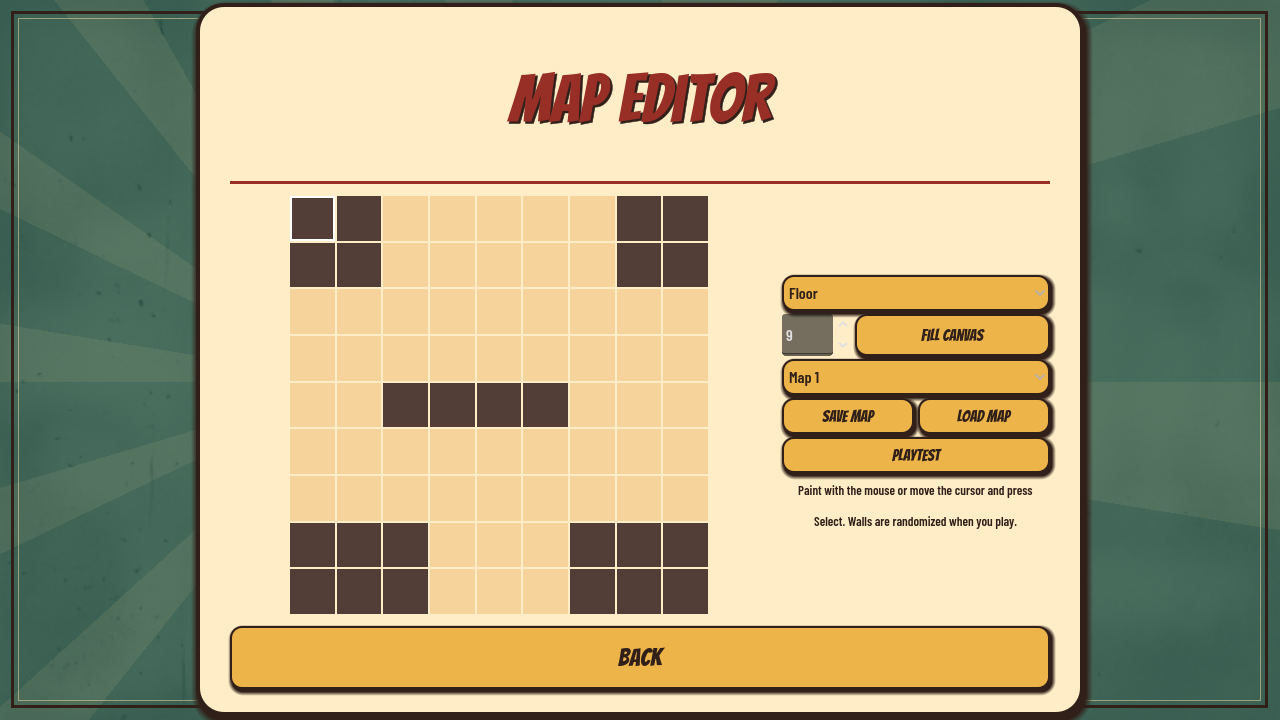
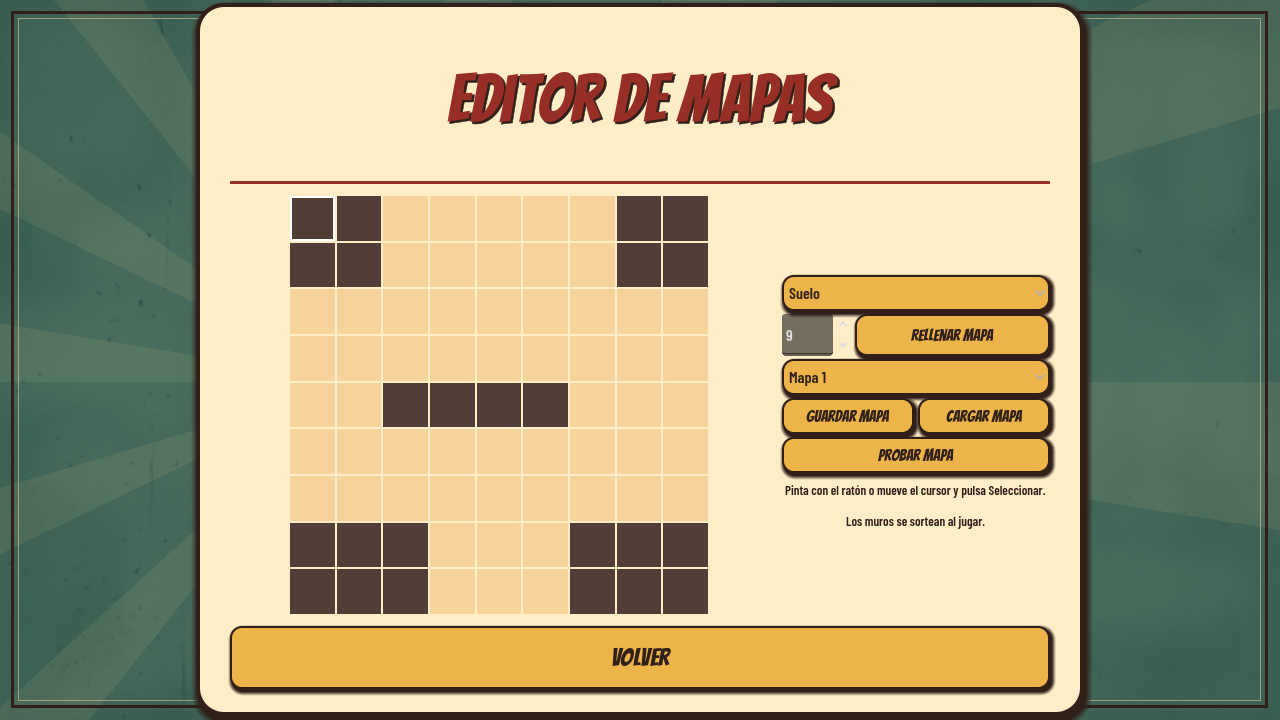
Make Sudoku bots rotate targets and showcase all locales

diff --git a/gameplay/ai/components/SudokuSolverAI.cs b/gameplay/ai/components/SudokuSolverAI.cs
@@ -40,6 +40,11 @@ public partial class SudokuSolverAI : Node
     private float _wait;
     private bool _readyToShoot;
     private int _avoidIndex = -1;
+    private int _lastWorkedIndex = -1;
+    private int _valueBeforeShot;
+    private float _flightLeft;
+    private bool _distantTarget;
+    private bool _lastShotDistant;
     private int _patrolIndex;
     private Vector2[] _patrolRoute = System.Array.Empty<Vector2>();
     private int _patrolWaypoint;
@@ -81,6 +86,21 @@ public partial class SudokuSolverAI : Node
         {
             Stop();
             return;
+        }
+
+        if (_flightLeft > 0f)
+        {
+            _flightLeft -= (float)delta;
+            if (_flightLeft > 0f && IsInstanceValid(_target) &&
+                _target!.Get("current_value").AsInt32() == _valueBeforeShot)
+            {
+                Stop();
+                return;
+            }
+            _flightLeft = 0f;
+            _target = null;
+            TargetIndex = -1;
+            _wait = 0f;
         }
 
         if (!TargetNeedsEdit())
@@ -157,6 +177,11 @@ public partial class SudokuSolverAI : Node
         _clock.NextShot = now + Gap();
         _clock.LastTeam = team;
         _readyToShoot = false;
+        _lastWorkedIndex = TargetIndex;
+        _lastShotDistant = _distantTarget;
+        _valueBeforeShot = _target!.Get("current_value").AsInt32();
+        float flightDistance = _tank.GetNode<Node2D>("body/head_mount/head/muzzle").GlobalPosition.DistanceTo(_target.GlobalPosition);
+        _flightLeft = flightDistance / ShellSpeed() + 0.22f;
         _tank.Call("set_ai_controls", 0f, 0f, true);
     }
 
@@ -193,6 +218,15 @@ public partial class SudokuSolverAI : Node
         var cells = _maze.Get("sudoku_numbers").AsGodotArray();
         var answers = _maze.Get("solution").AsInt32Array();
         Vector2 location = _tank.GlobalPosition;
+        if (!_lastShotDistant && TryDistantTarget(cells, answers, claimed, location))
+        {
+            _avoidIndex = -1;
+            _stuckTime = 0f;
+            _progress = location;
+            return;
+        }
+
+        _distantTarget = false;
         float best = float.PositiveInfinity;
         for (int i = 0; i < answers.Length; i++)
         {
@@ -204,6 +238,8 @@ public partial class SudokuSolverAI : Node
                 continue;
             float cost = route.Length + location.DistanceTo(route[0]) / 160f +
                 location.DistanceTo(cell.GlobalPosition) / 2400f;
+            if (i == _lastWorkedIndex)
+                cost += answers.Length;
             if (cost >= best)
                 continue;
 
@@ -225,6 +261,60 @@ public partial class SudokuSolverAI : Node
         _stuckTime = 0f;
         _progress = location;
     }
+
+    private bool TryDistantTarget(Godot.Collections.Array cells, int[] answers, HashSet<int> claimed, Vector2 location)
+    {
+        float scale = Mathf.Abs(_tank.GlobalScale.X);
+        float tile = (float)_maze.Get("grid_size").AsDouble() * Mathf.Abs(_maze.GlobalScale.X);
+        float muzzleOffset = location.DistanceTo(_tank.GetNode<Node2D>("body/head_mount/head/muzzle").GlobalPosition);
+        var stats = _tank.Get("shell_stats").AsGodotObject()!;
+        float reach = Mathf.Min(tile * 3.4f, ShellSpeed() * (float)stats.Get("shell_lifetime").AsDouble() * 0.85f);
+        float best = float.PositiveInfinity;
+        for (int i = 0; i < answers.Length; i++)
+        {
+            if (claimed.Contains(i) || i == _avoidIndex || i == _lastWorkedIndex ||
+                cells[i].AsGodotObject() is not Node2D cell || cell.Get("fixed").AsBool())
+                continue;
+            int value = cell.Get("current_value").AsInt32();
+            int maximum = cell.Get("max_value").AsInt32();
+            int edits = (answers[i] - value + maximum) % maximum;
+            if (value == 0)
+                edits = answers[i];
+            if (edits <= 1)
+                continue;
+
+            Vector2 offset = cell.GlobalPosition - location;
+            float distance = offset.Length();
+            if (distance <= tile * 0.92f || distance > reach ||
+                Mathf.Min(Mathf.Abs(offset.X), Mathf.Abs(offset.Y)) > 34f * scale)
+                continue;
+            Vector2 direction = offset / distance;
+            Vector2 muzzle = location + direction * muzzleOffset;
+            var barrel = PhysicsRayQueryParameters2D.Create(location, muzzle, 1, new Array<Rid> { _tank.GetRid() });
+            if (_tank.GetWorld2D().DirectSpaceState.IntersectRay(barrel).Count > 0 ||
+                !FirstEditableHitIs(muzzle, cell.GlobalPosition, cell))
+                continue;
+
+            float cost = distance + 90f * Mathf.Abs(Mathf.AngleDifference(_tank.GlobalRotation, direction.Angle()));
+            if (cost >= best)
+                continue;
+            best = cost;
+            TargetIndex = i;
+            _target = cell;
+            _direction = direction;
+        }
+
+        if (_target is null)
+            return false;
+        _distantTarget = true;
+        _stage = location;
+        _route = System.Array.Empty<Vector2>();
+        _nextWaypoint = 0;
+        return true;
+    }
+
+    private float ShellSpeed() => Math.Max(1f, (float)_tank.Get("shell_stats").AsGodotObject()!
+        .Get("shell_speed").AsDouble() * Mathf.Abs(_tank.GlobalScale.X));
 
     private Vector2 Waypoint(Vector2 position, float scale)
     {
@@ -267,12 +357,30 @@ public partial class SudokuSolverAI : Node
     {
         Vector2 start = _tank.GetNode<Node2D>("body/head_mount/head/muzzle").GlobalPosition;
         Vector2 forward = Vector2.FromAngle(_tank.GlobalRotation);
-        var query = PhysicsRayQueryParameters2D.Create(start, start + forward * 10f, 1);
+        float distance = _distantTarget ? Math.Max(10f, (_target!.GlobalPosition - start).Dot(forward)) : 10f;
+        return FirstEditableHitIs(start, start + forward * distance, _target!);
+    }
+
+    private bool FirstEditableHitIs(Vector2 start, Vector2 end, Node2D target)
+    {
+        var query = PhysicsRayQueryParameters2D.Create(start, end, 1);
         query.CollideWithAreas = true;
         query.HitFromInside = true;
-        query.Exclude = new Array<Rid> { _tank.GetRid() };
-        var hit = _tank.GetWorld2D().DirectSpaceState.IntersectRay(query);
-        return hit.Count > 0 && hit["collider"].AsGodotObject() is Area2D area && area.GetParent() == _target;
+        var exclusions = new Array<Rid> { _tank.GetRid() };
+        var space = _tank.GetWorld2D().DirectSpaceState;
+        while (true)
+        {
+            query.Exclude = exclusions;
+            var hit = space.IntersectRay(query);
+            if (hit.Count == 0 || hit["collider"].AsGodotObject() is not Area2D area)
+                return false;
+            var cell = area.GetParent();
+            if (cell == target)
+                return true;
+            if (cell is null || !cell.Get("fixed").AsBool())
+                return false;
+            exclusions.Add(area.GetRid());
+        }
     }
 
     private void AbandonTarget()

diff --git a/README.md b/README.md
@@ -2,7 +2,7 @@
 
 A local multiplayer tank game set in hand-painted cartoon mazes. Bank shots around corners, race for power-ups, or work together to solve Sudoku with cannon fire. Play with **2–8 tanks**, including up to **3 local human players**. Fill the other slots with AI or practice targets.
 
-![Steam Foundry gameplay with a moving conveyor, explosive barrels, and outlined tank shells](docs/screenshots/arena.png)
+![English Steam Foundry gameplay with a moving conveyor, explosive barrels, and outlined tank shells](docs/screenshots/arena.png)
 
 ## Play
 
@@ -29,19 +29,19 @@ Each tank starts with three lives. Pickup rings show the shots or time remaining
 
 Open **Map Editor**, paint the playable cells, and leave empty space to shape the arena. Save to one of three local slots or use **Playtest**. Keep the painted cells connected edge to edge. Every match rolls new walls inside your footprint.
 
-![The Map Editor with a custom painted footprint and Playtest controls](docs/screenshots/map-editor.png)
+![Spanish Map Editor with a custom painted footprint and Playtest controls](docs/screenshots/map-editor.png)
 
 ## Solve Sudoku together
 
-Shoot an editable cell to increment it. Values wrap back to 1 after the highest digit. Start with the default **9×9** board, choose another supported size, or pick **Random**. Sudoku bots know the solution and take turns driving into position and firing.
+Shoot an editable cell to increment it. Values wrap back to 1 after the highest digit. Start with the default **9×9** board, choose another supported size, or pick **Random**. Sudoku bots know the solution. They take turns, make one edit at a time, and switch cells when they can. A clear corridor lets them shoot from farther away.
 
-![Cooperative 9 by 9 Sudoku with tanks and player edit counts](docs/screenshots/sudoku.png)
+![Simplified Chinese 9 by 9 Sudoku with tanks and player edit counts](docs/screenshots/sudoku.png)
 
 ## Finish a round
 
 The results screen shows elapsed time, remaining lives, shots fired, and total wins. Continue the campaign when available, play a different random level with the same roster, or return to the main menu. Sudoku results show each player’s edits and offer a new random puzzle. During campaign play, **Pause → Save Checkpoint** saves your progress.
 
-![Victory results with player stats and options for another random level or the main menu](docs/screenshots/results.png)
+![Greek victory results with player stats and options for another random level or the main menu](docs/screenshots/results.png)
 
 ## Credits
 
